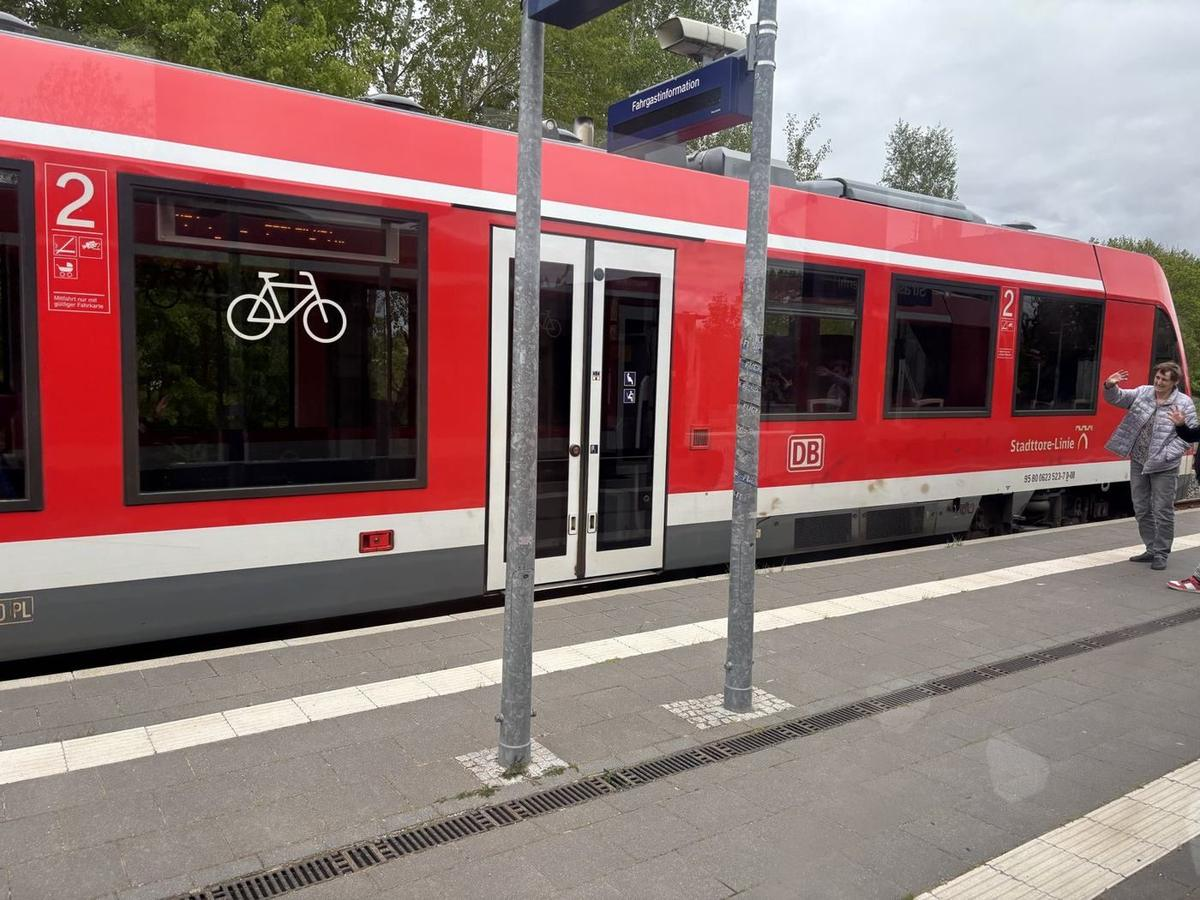
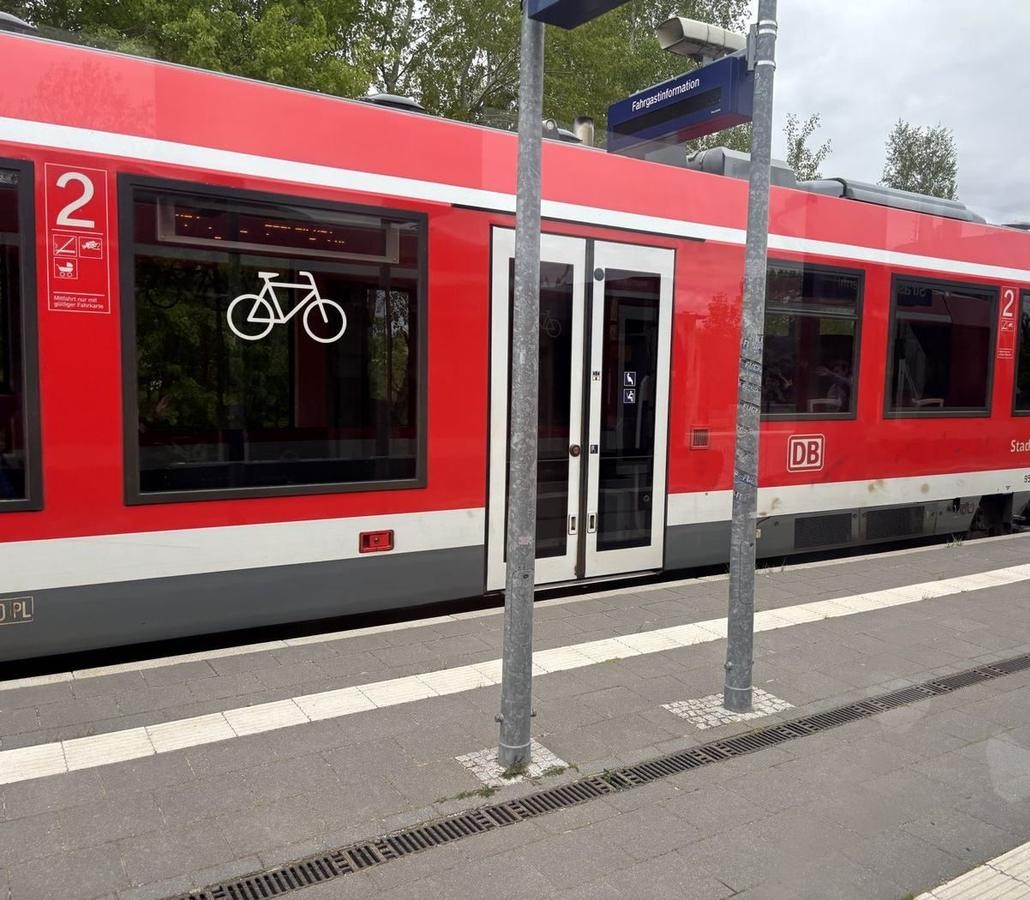
Privacy fix on live articles: remove photos showing his ex-girlfriend, her gear, strangers' faces, and photos he had removed
- EU station 2: drop 3 photos he marked ✕ on the story page (#202, #270, #293)
- EU station 3: crops that remove her figure / her bike / a stranger's face; drop p-riding-away (uncertain bag)
- EU station 4: drop p-bryggen-arch (shows her and her bike) and p-aker-brygge-sit (he marked ✕);
  Danhostel room photo replaced by a bunks-only crop (her pannier was on the floor)
- Cusco: drop p-train (clear faces of other passengers)
Text rewrites are NOT included; only removals/crops.

diff --git a/content/journeys/2025-eu-04-copenhagen-oslo/index.md b/content/journeys/2025-eu-04-copenhagen-oslo/index.md
@@ -114,7 +114,7 @@ Nyhavn。17 世紀挖的運河,兩岸的彩色房子、老帆船、露天座位;
 
 環境很好、經濟實惠、品質也好。下次如果有機會再到哥本哈根,我應該很希望再住那裡。
 
-![Danhostel 的房間,窗外就是港口和 Langebro。](p-danhostel-room.jpg "Danhostel 的房間,窗外就是港口和 Langebro。")
+![Danhostel 的房間,窗外就是港口和 Langebro。](p-danhostel-bunks.jpg "Danhostel 的房間,窗外就是港口和 Langebro。")
 
 ## 5/14:港邊的木棧道,然後上船
 
@@ -136,7 +136,6 @@ Christiansborg 宮旁邊的馬場,一輛黑色的馬車,兩匹白馬。
 
 港邊的新建築也值得看:磚色的大樓沿著水岸折成一排,底下是木棧道和幾顆黑色的石雕。
 
-![港邊的新建築與木棧道。](p-bryggen-arch.jpg "港邊的新建築與木棧道。")
 
 路邊一整排共享單車,橘的、綠的、白的停成一片——哥本哈根的街上,單車比車多。
 
@@ -192,7 +191,6 @@ Christiansborg 宮旁邊的馬場,一輛黑色的馬車,兩匹白馬。
 
 在碼頭邊坐下來,車就靠在欄杆上。對面整排遊艇,再過去是 Akershus 要塞的城牆。
 
-![碼頭邊坐一會,車靠在欄杆上。](p-aker-brygge-sit.jpg "碼頭邊坐一會,車靠在欄杆上。")
 
 港裡靠著幾艘雙桅的帆船,天上的雲一團一團。
 

diff --git a/content/journeys/2025-eu-02-north-germany/index.md b/content/journeys/2025-eu-02-north-germany/index.md
@@ -70,7 +70,6 @@ showHero: false
 
 從街口退開一點看,那個尖角就像一艘船的船首,硬生生切進兩條街之間。
 
-![Chilehaus 的尖角,像船首切進街口。](p-chilehaus-wide.jpg "Chilehaus 的尖角,像船首切進街口。")
 
 再往前是倉庫城(Speicherstadt)。紅磚倉庫一棟接一棟,綠色的銅屋頂,前面一座黑色的鐵橋跨過運河。這是世界上最大的倉庫區,十九世紀末建在橡木樁上;當年整區是免稅港,咖啡、香料、地毯就堆在這些磚樓裡。
 
@@ -82,11 +81,9 @@ showHero: false
 
 中午十二點多,St. Michaelis 教堂的塔樓:黑色的塔身、金色的鐘面,前面剛好擋著一支紅綠燈。漢堡人叫它 Michel,從易北河進港的船,老遠就先看到這座塔。
 
-![St. Michaelis 教堂的塔樓。](p-michel-tower.jpg "St. Michaelis 教堂的塔樓。")
 
 下午四點多,出了市區往東北騎,停在 Ahrensburg 附近的營地。帳篷搭在草地上,旁邊一排露營車。
 
-![Ahrensburg 附近的營地。](p-camp-ahrensburg.jpg "Ahrensburg 附近的營地。")
 
 ## 5/5:露水結冰
 

diff --git a/content/journeys/2026-cusco/index.md b/content/journeys/2026-cusco/index.md
@@ -82,7 +82,6 @@ showHero: false
 
 去馬丘比丘的火車只有兩家,Inca Rail 是其中一家,跑的是歐揚泰坦博(Ollantaytambo)到熱水鎮(Aguas Calientes)這一段,一個半小時左右。行程表上是這樣排的:09:55 從庫斯科搭巴士到歐揚泰坦博,12:36 上火車,往熱水鎮。13:29 的照片在車廂裡,車頂是天窗,山從頭上過去。
 
-![景觀列車的車廂,車頂是天窗。](p-train.jpg "景觀列車的車廂,車頂是天窗。")
 
 從馬丘比丘出來、再搭火車回熱水鎮,只為了坐這段車。還不錯,算是蠻值得的;但說穿了,其實就是噱頭罷了。
 
